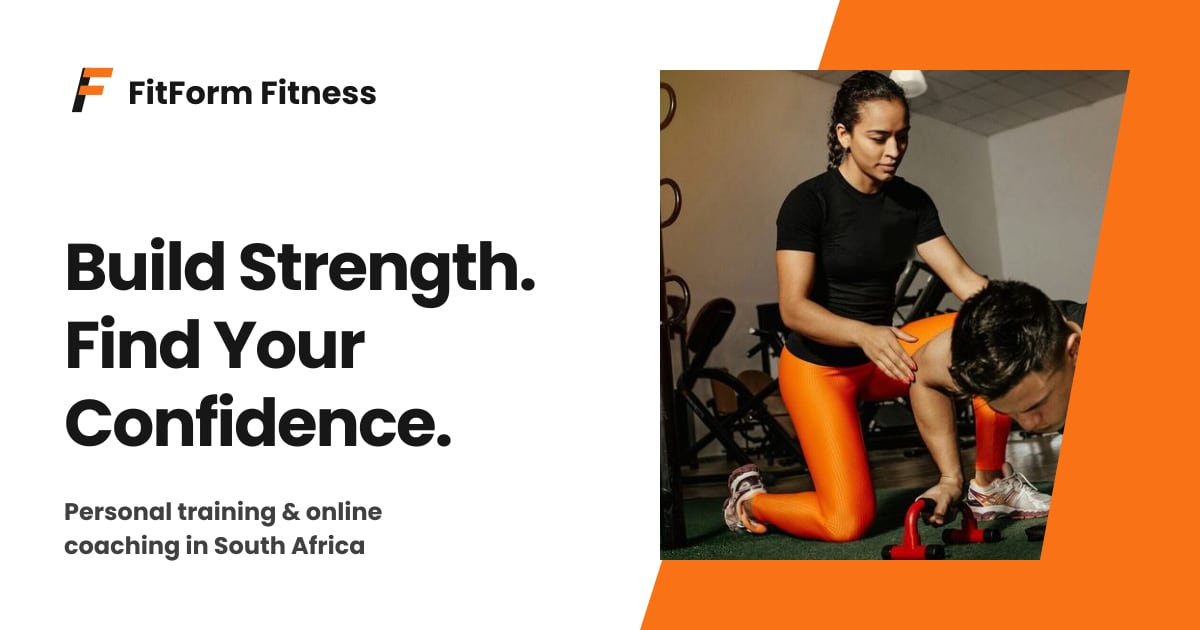
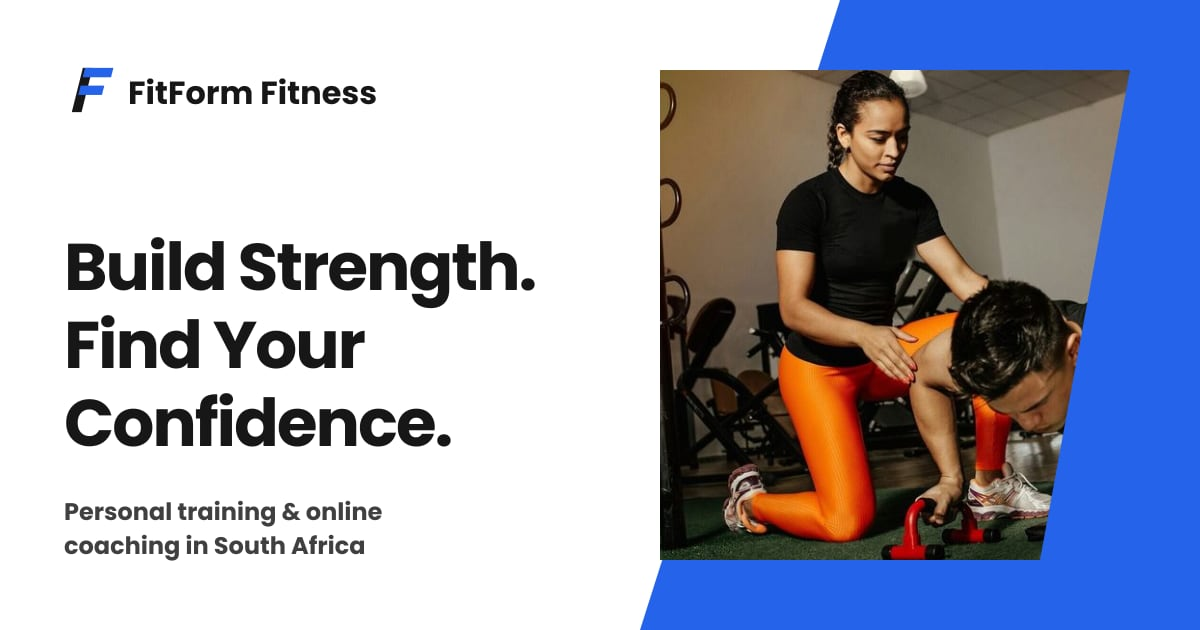
Change brand colour to blue
Primary colour is now #2563EB with white text on it. Adds a lighter
blue for use on charcoal panels. Logo, favicon, app icon and sharing
image redrawn in blue.

Claude-Session: https://claude.ai/code/session_01RSmyZZEaXwr75V4fvuxUk7

Changed region(s): [[0.5242, 0.0, 1.0, 1.0], [0.0617, 0.0905, 0.0925, 0.1508]]

diff --git a/app/globals.css b/app/globals.css
@@ -8,18 +8,21 @@
    ============================================================ */
 
 :root {
-  --c-primary: #f97316;
+  --c-primary: #2563eb;
+  --c-on-primary: #ffffff;
   --c-secondary: #171717;
   --c-accent: #f3f4f6;
 
-  /* primary (orange) */
+  /* primary (brand blue) */
   --primary: var(--c-primary);
-  --primary-hover: color-mix(in oklab, var(--c-primary) 86%, black);
-  --primary-soft: color-mix(in oklab, var(--c-primary) 16%, white);
-  --primary-tint: color-mix(in oklab, var(--c-primary) 8%, white);
-  /* orange that is dark enough to use as text on white (WCAG AA) */
-  --primary-text: color-mix(in oklab, var(--c-primary) 62%, black);
-  --on-primary: var(--c-secondary);
+  --primary-hover: color-mix(in oklab, var(--c-primary) 84%, black);
+  --primary-soft: color-mix(in oklab, var(--c-primary) 14%, white);
+  --primary-tint: color-mix(in oklab, var(--c-primary) 7%, white);
+  /* brand colour dark enough to use as text on white (WCAG AA) */
+  --primary-text: color-mix(in oklab, var(--c-primary) 85%, black);
+  /* brand colour light enough to use as text on charcoal (WCAG AA) */
+  --primary-on-dark: color-mix(in oklab, var(--c-primary) 55%, white);
+  --on-primary: var(--c-on-primary);
 
   /* secondary (charcoal) */
   --ink: var(--c-secondary);
@@ -58,6 +61,7 @@
   --color-primary-tint: var(--primary-tint);
   --color-primary-text: var(--primary-text);
   --color-on-primary: var(--on-primary);
+  --color-primary-on-dark: var(--primary-on-dark);
   --color-ink: var(--ink);
   --color-ink-soft: var(--ink-soft);
   --color-ink-muted: var(--ink-muted);
@@ -117,7 +121,7 @@ p { text-wrap: pretty; }
   outline: 3px solid var(--ink);
   outline-offset: 3px;
 }
-.on-dark :focus-visible { outline-color: var(--primary); }
+.on-dark :focus-visible { outline-color: var(--primary-on-dark); }
 
 .wrap {
   width: 100%;
@@ -176,7 +180,7 @@ p { text-wrap: pretty; }
   box-shadow: /* taste-skill-ignore: keyboard focus ring */ inset 0 0 0 3px var(--ink), inset 0 0 0 5px var(--btn-bg);
 }
 .btn-dark { --btn-bg: var(--ink); --btn-bg-hover: var(--ink-hover); --btn-fg: var(--on-ink); }
-.btn-dark:focus-visible { box-shadow: /* taste-skill-ignore: keyboard focus ring */ inset 0 0 0 3px var(--primary); }
+.btn-dark:focus-visible { box-shadow: /* taste-skill-ignore: keyboard focus ring */ inset 0 0 0 3px var(--primary-on-dark); }
 .btn-light { --btn-bg: var(--surface); --btn-bg-hover: var(--surface-strong); --btn-fg: var(--ink); }
 .btn-white { --btn-bg: #fff; --btn-bg-hover: var(--surface); --btn-fg: var(--ink); }
 .btn:active { transform: scale(0.97); }
@@ -236,7 +240,7 @@ p { text-wrap: pretty; }
     animation: settle 1600ms var(--ease-soft) 260ms forwards;
   }
 
-  /* the giant orange shape slides in once */
+  /* the giant brand-colour shape slides in once */
   .shape-in {
     animation: shape-in 1000ms var(--ease-out) both;
   }
@@ -319,7 +323,7 @@ select.field {
 .field[aria-invalid="true"] { border-color: #b42318; }
 
 /* keyboard focus ring on the finder choices (clip-path hides normal outlines) */
-.peer:focus-visible + .chip-focus { box-shadow: /* taste-skill-ignore: keyboard focus ring */ inset 0 0 0 3px var(--primary); }
+.peer:focus-visible + .chip-focus { box-shadow: /* taste-skill-ignore: keyboard focus ring */ inset 0 0 0 3px var(--primary-on-dark); }
 
 /* ---------- small helpers ---------- */
 .img-zoom img { transition: transform 700ms var(--ease-soft); }

diff --git a/components/faq.tsx b/components/faq.tsx
@@ -22,12 +22,12 @@ export function Faq() {
         </div>
         <div data-reveal className="faq flex flex-col gap-2 lg:col-span-8">
           {site.faqs.map((f, i) => (
-            <details key={f.q} name="faq" open={i === 0} className="group bg-surface open:bg-primary">
+            <details key={f.q} name="faq" open={i === 0} className="group bg-surface open:bg-primary open:text-on-primary">
               <summary className="flex min-h-[72px] items-center justify-between gap-6 px-6 py-4 text-[1.15rem] leading-snug font-semibold sm:text-[1.25rem]">
                 <span>{f.q}</span>
                 <span className="plus" aria-hidden="true" />
               </summary>
-              <p className="max-w-[56ch] px-6 pb-7 text-[1.0625rem] text-on-primary">{f.a}</p>
+              <p className="max-w-[56ch] px-6 pb-7 text-[1.0625rem]">{f.a}</p>
             </details>
           ))}
         </div>

diff --git a/components/home/hero.tsx b/components/home/hero.tsx
@@ -6,7 +6,7 @@ import { speakHref } from "@/lib/contact";
 import { site } from "@/content/site";
 
 /**
- * Hero: the brand's forward-leaning shape at giant scale in orange, cropped by the
+ * Hero: the brand's forward-leaning shape at giant scale in the brand colour, cropped by the
  * edge of the screen, with the best photo cut to the same lean.
  */
 export function Hero() {
@@ -43,7 +43,7 @@ export function Hero() {
         </div>
 
         <div className="relative lg:col-span-5 lg:self-stretch">
-          {/* phone: orange block behind the photo */}
+          {/* phone: brand-colour block behind the photo */}
           <div aria-hidden="true" className="lean-left absolute inset-x-[-16px] top-[22%] bottom-0 bg-primary lg:hidden" style={{ ["--lean-x" as string]: "18%" }} />
           <div className="relative flex h-full items-center justify-end pb-0 lg:pb-0">
             <div

diff --git a/components/enquiry-form.tsx b/components/enquiry-form.tsx
@@ -86,7 +86,7 @@ export function EnquiryForm({ tone = "dark" }: { tone?: "dark" | "light" }) {
 
   const dark = tone === "dark";
   const label = `block text-[0.95rem] font-medium ${dark ? "text-on-ink" : "text-ink"}`;
-  const err = `mt-1.5 text-[0.9rem] font-medium ${dark ? "text-primary" : "text-[#b42318]"}`;
+  const err = `mt-1.5 text-[0.9rem] font-medium ${dark ? "text-primary-on-dark" : "text-[#b42318]"}`;
 
   const field = (k: keyof Values, text: string, input: React.ReactNode, full = false) => (
     <div className={full ? "sm:col-span-2" : ""}>

diff --git a/content/site.ts b/content/site.ts
@@ -27,7 +27,8 @@ export const site = {
 
   // Brand colours. Change these and the whole site updates (see app/globals.css).
   colours: {
-    primary: "#F97316", // energetic orange: buttons and key highlights
+    primary: "#2563EB", // modern blue: buttons and key highlights
+    onPrimary: "#FFFFFF", // text on top of the brand colour (white keeps blue readable)
     secondary: "#171717", // charcoal black: headings and text
     accent: "#F3F4F6", // soft grey: calm background panels
   },

diff --git a/components/home/how-it-works.tsx b/components/home/how-it-works.tsx
@@ -1,7 +1,7 @@
 import { site } from "@/content/site";
 
 /* A diagram drawn only with the brand's leaning shape: scattered at first (where you are now),
-   pulled into one focused band (your plan), then set out in neat orange rows (steady progress). */
+   pulled into one focused band (your plan), then set out in neat brand-colour rows (steady progress). */
 
 type Shape = { u: number; v: number; tone: "pale" | "mid" | "ink" | "accent" };
 

diff --git a/app/layout.tsx b/app/layout.tsx
@@ -59,6 +59,7 @@ function LocalBusinessSchema() {
 export default function RootLayout({ children }: Readonly<{ children: React.ReactNode }>) {
   const brand = {
     "--c-primary": site.colours.primary,
+    "--c-on-primary": site.colours.onPrimary,
     "--c-secondary": site.colours.secondary,
     "--c-accent": site.colours.accent,
   } as React.CSSProperties;

diff --git a/components/page-intro.tsx b/components/page-intro.tsx
@@ -1,7 +1,7 @@
 import Image from "next/image";
 import { images, type ImageKey } from "@/lib/images";
 
-/** Top of inner pages: big title on white, photo cut to the lean on an orange block. */
+/** Top of inner pages: big title on white, photo cut to the lean on a brand-colour block. */
 export function PageIntro({
   title,
   text,
